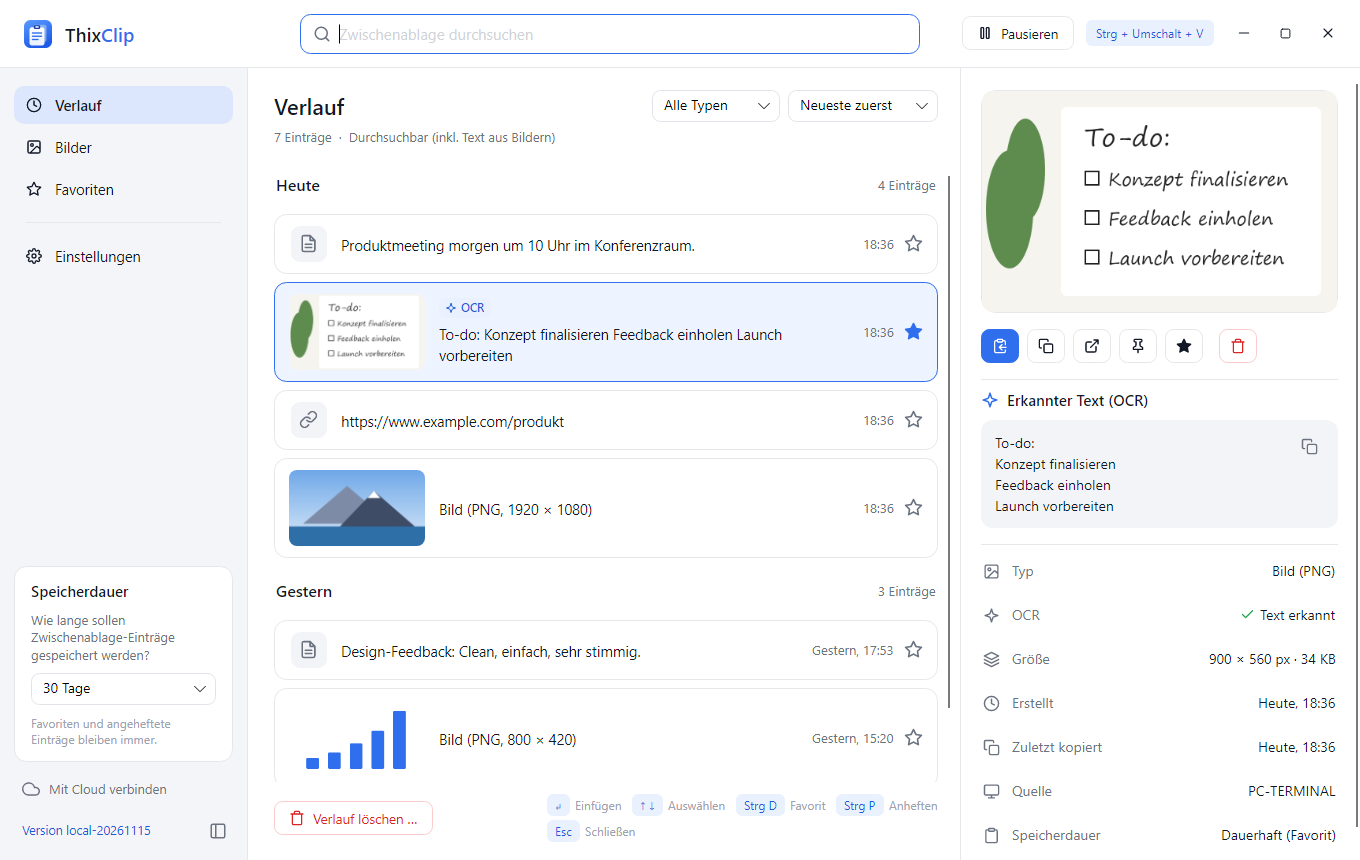
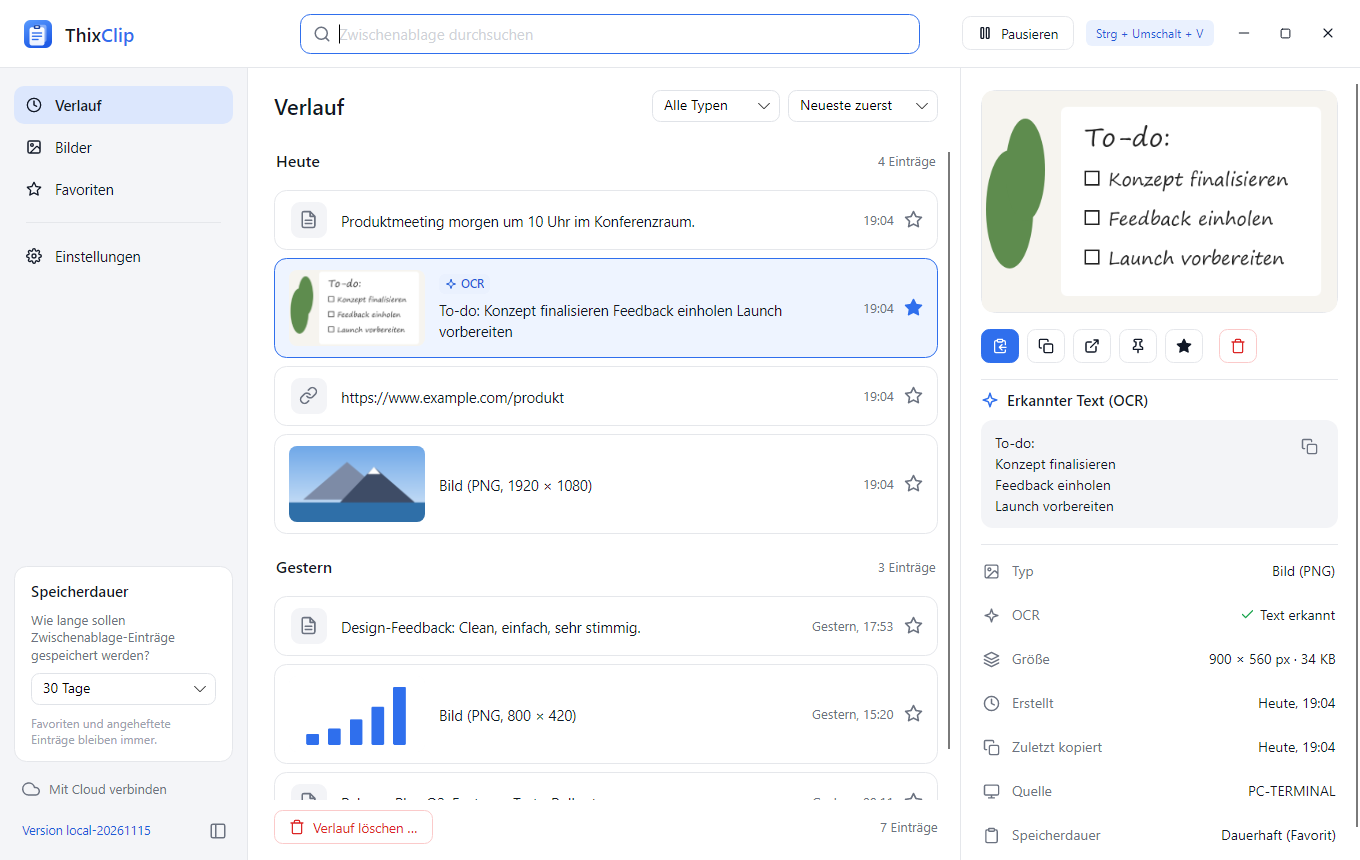
Close after copy, no growing gap above the list, update path from the version
- Ctrl/Cmd+C (and "Kopieren") closes the window; setting "Nach dem Kopieren schließen", on by default
- The chosen row is scrolled into view only after the list was measured: before, every
  refresh left a growing gap above the first entry
- History header without the hint text; count and notes at the bottom right
- About page: update card with the way to Einstellungen › Updates; a waiting update
  shows at the version bottom left

diff --git a/tests/ThixClip.Tests/UiTests.cs b/tests/ThixClip.Tests/UiTests.cs
@@ -309,6 +309,72 @@ public sealed class UiTests
     }
 
     [AvaloniaFact]
+    public void Copying_again_and_again_keeps_the_list_at_the_top()
+    {
+        using var data = new TestData();
+        SampleHistory.Create();
+        SettingsService.Update(settings => settings with { CloseAfterCopy = false });
+        var window = Open();
+        var history = (HistoryPage)window.PageHost.Content!;
+        var top = FirstItemTop(history);
+        for (var round = 0; round < 6; round++)
+        {
+            history.MoveSelection(3);
+            Settle(window);
+            window.KeyPressQwerty(PhysicalKey.C, CommandModifier);
+            Settle(window);
+            ClipboardMonitor.CheckOnce(); // what the monitor does: the copied entry moves to the top
+            Settle(window);
+            Assert.True(Math.Abs(FirstItemTop(history) - top) < 1, $"round {round}: {top} -> {FirstItemTop(history)}");
+        }
+
+        window.Close();
+    }
+
+    private static double FirstItemTop(HistoryPage history)
+    {
+        var first = history.ClipList.ContainerFromIndex(0);
+        return first is null ? double.NaN : first.TranslatePoint(new Point(0, 0), history.ClipList)!.Value.Y;
+    }
+
+    [AvaloniaFact]
+    public void Copying_closes_the_window_when_the_settings_say_so()
+    {
+        using var data = new TestData();
+        SampleHistory.Create();
+        var window = Open();
+        Assert.True(SettingsService.Get().CloseAfterCopy, "on by default");
+        window.KeyPressQwerty(PhysicalKey.C, CommandModifier);
+        Settle(window);
+        Assert.False(window.IsVisible);
+        Assert.Equal("Produktmeeting morgen um 10 Uhr\nim Konferenzraum.", data.Clipboard.Read().Text);
+
+        SettingsService.Update(settings => settings with { CloseAfterCopy = false });
+        window.ShowFromTray(rememberForeground: false);
+        Settle(window);
+        window.KeyPressQwerty(PhysicalKey.C, CommandModifier);
+        Settle(window);
+        Assert.True(window.IsVisible);
+        Assert.Equal("In die Zwischenablage kopiert.", ((HistoryPage)window.PageHost.Content!).SubtitleText.Text);
+        window.Close();
+    }
+
+    [AvaloniaFact]
+    public void The_about_page_leads_to_the_updates()
+    {
+        using var data = new TestData();
+        var window = Open();
+        window.VersionButton.RaiseEvent(new Avalonia.Interactivity.RoutedEventArgs(Button.ClickEvent));
+        Settle(window);
+        var about = Assert.IsType<AboutPage>(window.PageHost.Content);
+        Assert.Equal("Nach Updates suchen …", about.UpdateLabel.Text);
+        about.UpdateButton.RaiseEvent(new Avalonia.Interactivity.RoutedEventArgs(Button.ClickEvent));
+        Settle(window);
+        Assert.IsType<SettingsPage>(window.PageHost.Content);
+        window.Close();
+    }
+
+    [AvaloniaFact]
     public void A_narrow_window_keeps_the_list()
     {
         using var data = new TestData();

diff --git a/src/ThixClip/MainWindow.axaml.cs b/src/ThixClip/MainWindow.axaml.cs
@@ -59,6 +59,13 @@ public partial class MainWindow : ThemedWindow
         }
 
         _history.PasteRequested += async (_, row) => await PasteAsync(row);
+        _history.Copied += (_, _) =>
+        {
+            if (SettingsService.Get().CloseAfterCopy)
+            {
+                HideWindow(returnToPrevious: true);
+            }
+        };
         PageHost.Content = _history;
         NavHistory.IsChecked = true;
 
@@ -96,6 +103,7 @@ public partial class MainWindow : ThemedWindow
         };
 
         RecordingService.Changed += (_, _) => Ui.Post(RefreshPause);
+        UpdateCoordinator.Checked += (_, _) => Ui.Post(ApplySidebar);
         RefreshPause();
 
         AddHandler(KeyDownEvent, OnPreviewKeyDown, RoutingStrategies.Tunnel);
@@ -550,10 +558,25 @@ public partial class MainWindow : ThemedWindow
         CloudStatus.HorizontalContentAlignment = folded ? HorizontalAlignment.Center : HorizontalAlignment.Left;
         BrandName.IsVisible = !folded || OperatingSystem.IsMacOS();
 
+        // An update waiting: the version says so (a dot when folded); a click shows "Über ThixClip" with the way to install it.
+        var update = UpdateService.LastResult is { IsUpdateAvailable: true, Manifest: { } manifest } ? manifest.Version : null;
         VersionButton.Content = folded
-            ? new IconView { Data = Ui.Icon("Icon.Info"), Width = 18, Height = 18 }
-            : $"Version {AppInfo.Version}";
-        ToolTip.SetTip(VersionButton, folded ? $"Über ThixClip – Version {AppInfo.Version}" : "Über ThixClip");
+            ? new Panel
+            {
+                Children =
+                {
+                    new IconView { Data = Ui.Icon(update is null ? "Icon.Info" : "Icon.Download"), Width = 18, Height = 18 },
+                    new Avalonia.Controls.Shapes.Ellipse
+                    {
+                        Width = 7, Height = 7, Fill = Ui.Brush("AccentBrush"), IsVisible = update is not null,
+                        HorizontalAlignment = HorizontalAlignment.Right, VerticalAlignment = VerticalAlignment.Top, Margin = new Thickness(0, -2, -3, 0),
+                    },
+                },
+            }
+            : update is null ? $"Version {AppInfo.Version}" : $"Version {AppInfo.Version}  ·  Update";
+        ToolTip.SetTip(VersionButton, update is not null
+            ? $"Update auf {update} verfügbar – Über ThixClip"
+            : folded ? $"Über ThixClip – Version {AppInfo.Version}" : "Über ThixClip");
         VersionButton.Margin = folded ? new Thickness(0) : new Thickness(8, 0, 0, 0);
         VersionButton.HorizontalAlignment = folded ? HorizontalAlignment.Center : HorizontalAlignment.Left;
         Grid.SetColumnSpan(VersionButton, folded ? 2 : 1);

diff --git a/src/ThixClip/Pages/HistoryPage.axaml.cs b/src/ThixClip/Pages/HistoryPage.axaml.cs
@@ -110,8 +110,11 @@ public partial class HistoryPage : UserControl
         var detailWidth = width < 820 ? 0 : width < 1040 ? 330 : 400;
         Columns.ColumnDefinitions[1].Width = new Avalonia.Controls.GridLength(detailWidth);
         DetailPane.IsVisible = detailWidth > 0;
-        KeyHints.IsVisible = width - detailWidth > 700;
+        KeyHints.IsVisible = width - detailWidth > 820;
     }
+
+    /// <summary>An entry went to the clipboard (Ctrl/Cmd+C, "Kopieren"): the main window closes when the settings say so.</summary>
+    public event EventHandler? Copied;
 
     /// <summary>Enter, double click, "Einfügen": the main window hides and pastes.</summary>
     public event EventHandler<ClipRowViewModel>? PasteRequested;
@@ -172,6 +175,7 @@ public partial class HistoryPage : UserControl
         {
             ClipService.CopyToClipboard(RequireSelected().Id);
             ShowMessage("In die Zwischenablage kopiert.");
+            Copied?.Invoke(this, EventArgs.Empty);
         });
     }
 
@@ -362,7 +366,7 @@ public partial class HistoryPage : UserControl
             var countText = count == 1 ? "1 Eintrag" : $"{count:N0} Einträge";
             SubtitleText.Text = _query.Search.Length > 0
                 ? $"{(count == 1 ? "1 Treffer" : $"{count:N0} Treffer")} für „{_query.Search}“"
-                : $"{countText}  ·  Durchsuchbar (inkl. Text aus Bildern)";
+                : countText;
             SubtitleText.Foreground = Ui.Brush("TextMutedBrush");
         }
 
@@ -398,9 +402,21 @@ public partial class HistoryPage : UserControl
         NoSelection.IsVisible = row is null;
         if (row is not null)
         {
-            ClipList.ScrollIntoView(row);
+            BringIntoView(row);
         }
     }
+
+    /// <summary>
+    /// Scrolls the chosen row into view once the list has measured its new items. Asked right after the items were swapped,
+    /// the virtualizing panel goes by estimated heights and leaves a gap above the first row that grows with every refresh.
+    /// </summary>
+    private void BringIntoView(ClipRowViewModel row) => Dispatcher.UIThread.Post(() =>
+    {
+        if (ReferenceEquals(Selected, row))
+        {
+            ClipList.ScrollIntoView(row);
+        }
+    }, DispatcherPriority.Loaded);
 
     private void SelectRow(int index)
     {
@@ -414,7 +430,7 @@ public partial class HistoryPage : UserControl
 
         var row = rows[Math.Clamp(index, 0, rows.Count - 1)];
         ClipList.SelectedItem = row;
-        ClipList.ScrollIntoView(row);
+        BringIntoView(row);
         DetailScroller.ScrollToHome();
     }
 

diff --git a/src/ThixClip/Pages/AboutPage.axaml.cs b/src/ThixClip/Pages/AboutPage.axaml.cs
@@ -22,6 +22,34 @@ public partial class AboutPage : UserControl
         BuildText.Text = AppInfo.BuildNumber > 0 ? $"#{AppInfo.BuildNumber}" : "–";
         SystemText.Text = $"{RuntimeInformation.OSDescription} ({UpdateService.PlatformKey}), .NET {Environment.Version}";
         DataText.Text = AppPaths.DataDirectory;
+        AttachedToVisualTree += (_, _) => RefreshUpdate();
+        UpdateCoordinator.Checked += (_, _) => Ui.Post(RefreshUpdate);
+    }
+
+    /// <summary>What the last update check found; the button leads to Einstellungen › Updates (install or check there).</summary>
+    private void RefreshUpdate()
+    {
+        var result = UpdateService.LastResult;
+        var available = result is { IsUpdateAvailable: true, Manifest: not null };
+        UpdateTitle.Text = available ? $"Version {result!.Manifest!.Version} ist verfügbar" : AppInfo.IsLocalBuild ? "Lokaler Build" : "Updates";
+        UpdateText.Text = available
+            ? "Installieren dauert nur einen Moment, dein Verlauf bleibt erhalten."
+            : AppInfo.IsLocalBuild
+                ? "Ein lokaler Build bekommt keine Updates."
+                : result is null
+                    ? "Noch nicht geprüft."
+                    : $"{result.Message} Zuletzt geprüft: {(UpdateService.LastCheck is { } last ? Ui.FormatDateTime(last) : "–")}.";
+        UpdateLabel.Text = available ? "Update installieren …" : "Nach Updates suchen …";
+        UpdateButton.Theme = available ? Ui.Theme("PrimaryButton") : null;
+        UpdateIcon.Foreground = Ui.Brush(available ? "AccentBrush" : "TextMutedBrush");
+    }
+
+    private void OnUpdateClick(object? sender, RoutedEventArgs e)
+    {
+        if (Ui.WindowOf(this) is MainWindow window)
+        {
+            window.ShowSettings(SettingsPage.UpdatesTab);
+        }
     }
 
     private void OnGitHubClick(object? sender, RoutedEventArgs e) => Ui.OpenExternal($"https://github.com/{AppInfo.Repository}");

diff --git a/src/ThixClip/Pages/SettingsPage.axaml.cs b/src/ThixClip/Pages/SettingsPage.axaml.cs
@@ -48,6 +48,7 @@ public partial class SettingsPage : UserControl
             }
         });
         PasteSwitch.IsCheckedChanged += (_, _) => Apply(() => SettingsService.Update(settings => settings with { PasteOnSelect = PasteSwitch.IsChecked == true }));
+        CloseAfterCopySwitch.IsCheckedChanged += (_, _) => Apply(() => SettingsService.Update(settings => settings with { CloseAfterCopy = CloseAfterCopySwitch.IsChecked == true }));
         HideSwitch.IsCheckedChanged += (_, _) => Apply(() => SettingsService.Update(settings => settings with { HideOnDeactivate = HideSwitch.IsChecked == true }));
         ThemeChoice.SelectionChanged += (_, _) => Apply(() => SettingsService.Update(settings => settings with { Theme = (ThemeChoice)Math.Max(0, ThemeChoice.SelectedIndex) }));
         RetentionChoice.SelectionChanged += async (_, _) =>
@@ -96,9 +97,10 @@ public partial class SettingsPage : UserControl
             AutostartSwitch.IsEnabled = AutostartService.IsSupported && !locked;
             PasteSwitch.IsChecked = settings.PasteOnSelect;
             HideSwitch.IsChecked = settings.HideOnDeactivate;
+            CloseAfterCopySwitch.IsChecked = settings.CloseAfterCopy;
             ThemeChoice.SelectedIndex = (int)settings.Theme;
             RetentionChoice.SelectedIndex = SyncContract.RetentionChoices.ToList().IndexOf(settings.RetentionDays);
-            foreach (var control in new Control[] { PasteSwitch, HideSwitch, ThemeChoice, RetentionChoice, ImagesSwitch, OcrSwitch, ConfidentialSwitch, CheckUpdatesSwitch, AutoInstallSwitch })
+            foreach (var control in new Control[] { PasteSwitch, CloseAfterCopySwitch, HideSwitch, ThemeChoice, RetentionChoice, ImagesSwitch, OcrSwitch, ConfidentialSwitch, CheckUpdatesSwitch, AutoInstallSwitch })
             {
                 control.IsEnabled = !locked;
             }

diff --git a/src/ThixClip.Core/Models/AppSettings.cs b/src/ThixClip.Core/Models/AppSettings.cs
@@ -21,6 +21,9 @@ public sealed record AppSettings
     /// <summary>The window hides as soon as another app comes to the front (like a picker).</summary>
     public bool HideOnDeactivate { get; init; } = true;
 
+    /// <summary>Copying an entry (Ctrl/Cmd+C, "Kopieren") closes the window and goes back to the app in front.</summary>
+    public bool CloseAfterCopy { get; init; } = true;
+
     /// <summary>Content marked as confidential by password managers is not recorded.</summary>
     public bool IgnoreConfidential { get; init; } = true;
 

diff --git a/CLAUDE.md b/CLAUDE.md
@@ -73,8 +73,9 @@ src/ThixClip          (Avalonia app)
                       foot, remembered in AppSettings.IsSidebarCollapsed), page host; ALL keyboard handling (OnPreviewKeyDown)
   Pages/              HistoryPage (title and filters in one line; list grouped by day + detail pane with ONE row of icon buttons
                       Einfügen, Kopieren, Öffnen, Anheften, Favorit … Löschen; Ctrl/Cmd+click or +O opens; Delete takes the chosen
-                      entry and keeps the focus; adaptive below 820 px), ClipRowViewModel, SettingsPage
-                      (tabs Allgemein | Aufzeichnung | Cloud | Updates | Erweitert), AboutPage
+                      entry and keeps the focus; count / notes bottom right; the chosen row is scrolled into view only after
+                      layout (BringIntoView), else the virtualizing panel leaves a growing gap; adaptive below 820 px), ClipRowViewModel, SettingsPage
+                      (tabs Allgemein | Aufzeichnung | Cloud | Updates | Erweitert), AboutPage (update card -> Einstellungen › Updates)
   Controls/           ONE code base per control: IconView (line icons), IconLabel, ActionBar (left, positive -> negative, Separated
                       gap before delete), SettingRow, FormField (shows BusinessException.Field), InfoBar, KeyCaps, HotkeyRecorder
   Themes/             Theme.axaml (light + dark theme dictionaries, ControlThemes), Icons.axaml (generated)

diff --git a/README.md b/README.md
@@ -45,7 +45,7 @@
 | `↑` `↓` `Bild↑` `Bild↓`, `Strg/⌘ + Pos1/Ende` | Eintrag wählen |
 | `Enter` / Doppelklick | in die vorherige App **einfügen** (oder nur kopieren, siehe Einstellungen) |
 | `Alt + 1` … `Alt + 9` | den n-ten Eintrag sofort einfügen |
-| `Strg/⌘ + C` | nur kopieren |
+| `Strg/⌘ + C` | kopieren und ThixClip schließen (abschaltbar: Einstellungen › „Nach dem Kopieren schließen“) |
 | `Strg/⌘ + D` | Favorit |
 | `Strg/⌘ + P` | anheften |
 | `Entf` (Suche leer), `Strg + Entf` / `⌘ + ⌫` | löschen – der nächste Eintrag rückt nach und ist gewählt |
@@ -59,6 +59,7 @@
 | `Esc` | Suche leeren, dann schließen (der Fokus geht zurück in die vorherige App) |
 
 Die Versionsnummer unten links öffnet „Über ThixClip“ (eingeklappt: das ⓘ-Symbol), der Knopf daneben klappt das Menü ein.
+Liegt ein Update bereit, steht es an der Versionsnummer; „Über ThixClip“ führt mit „Update installieren …“ zu Einstellungen › Updates.
 
 | Menü eingeklappt | Verlauf löschen |
 |---|---|
